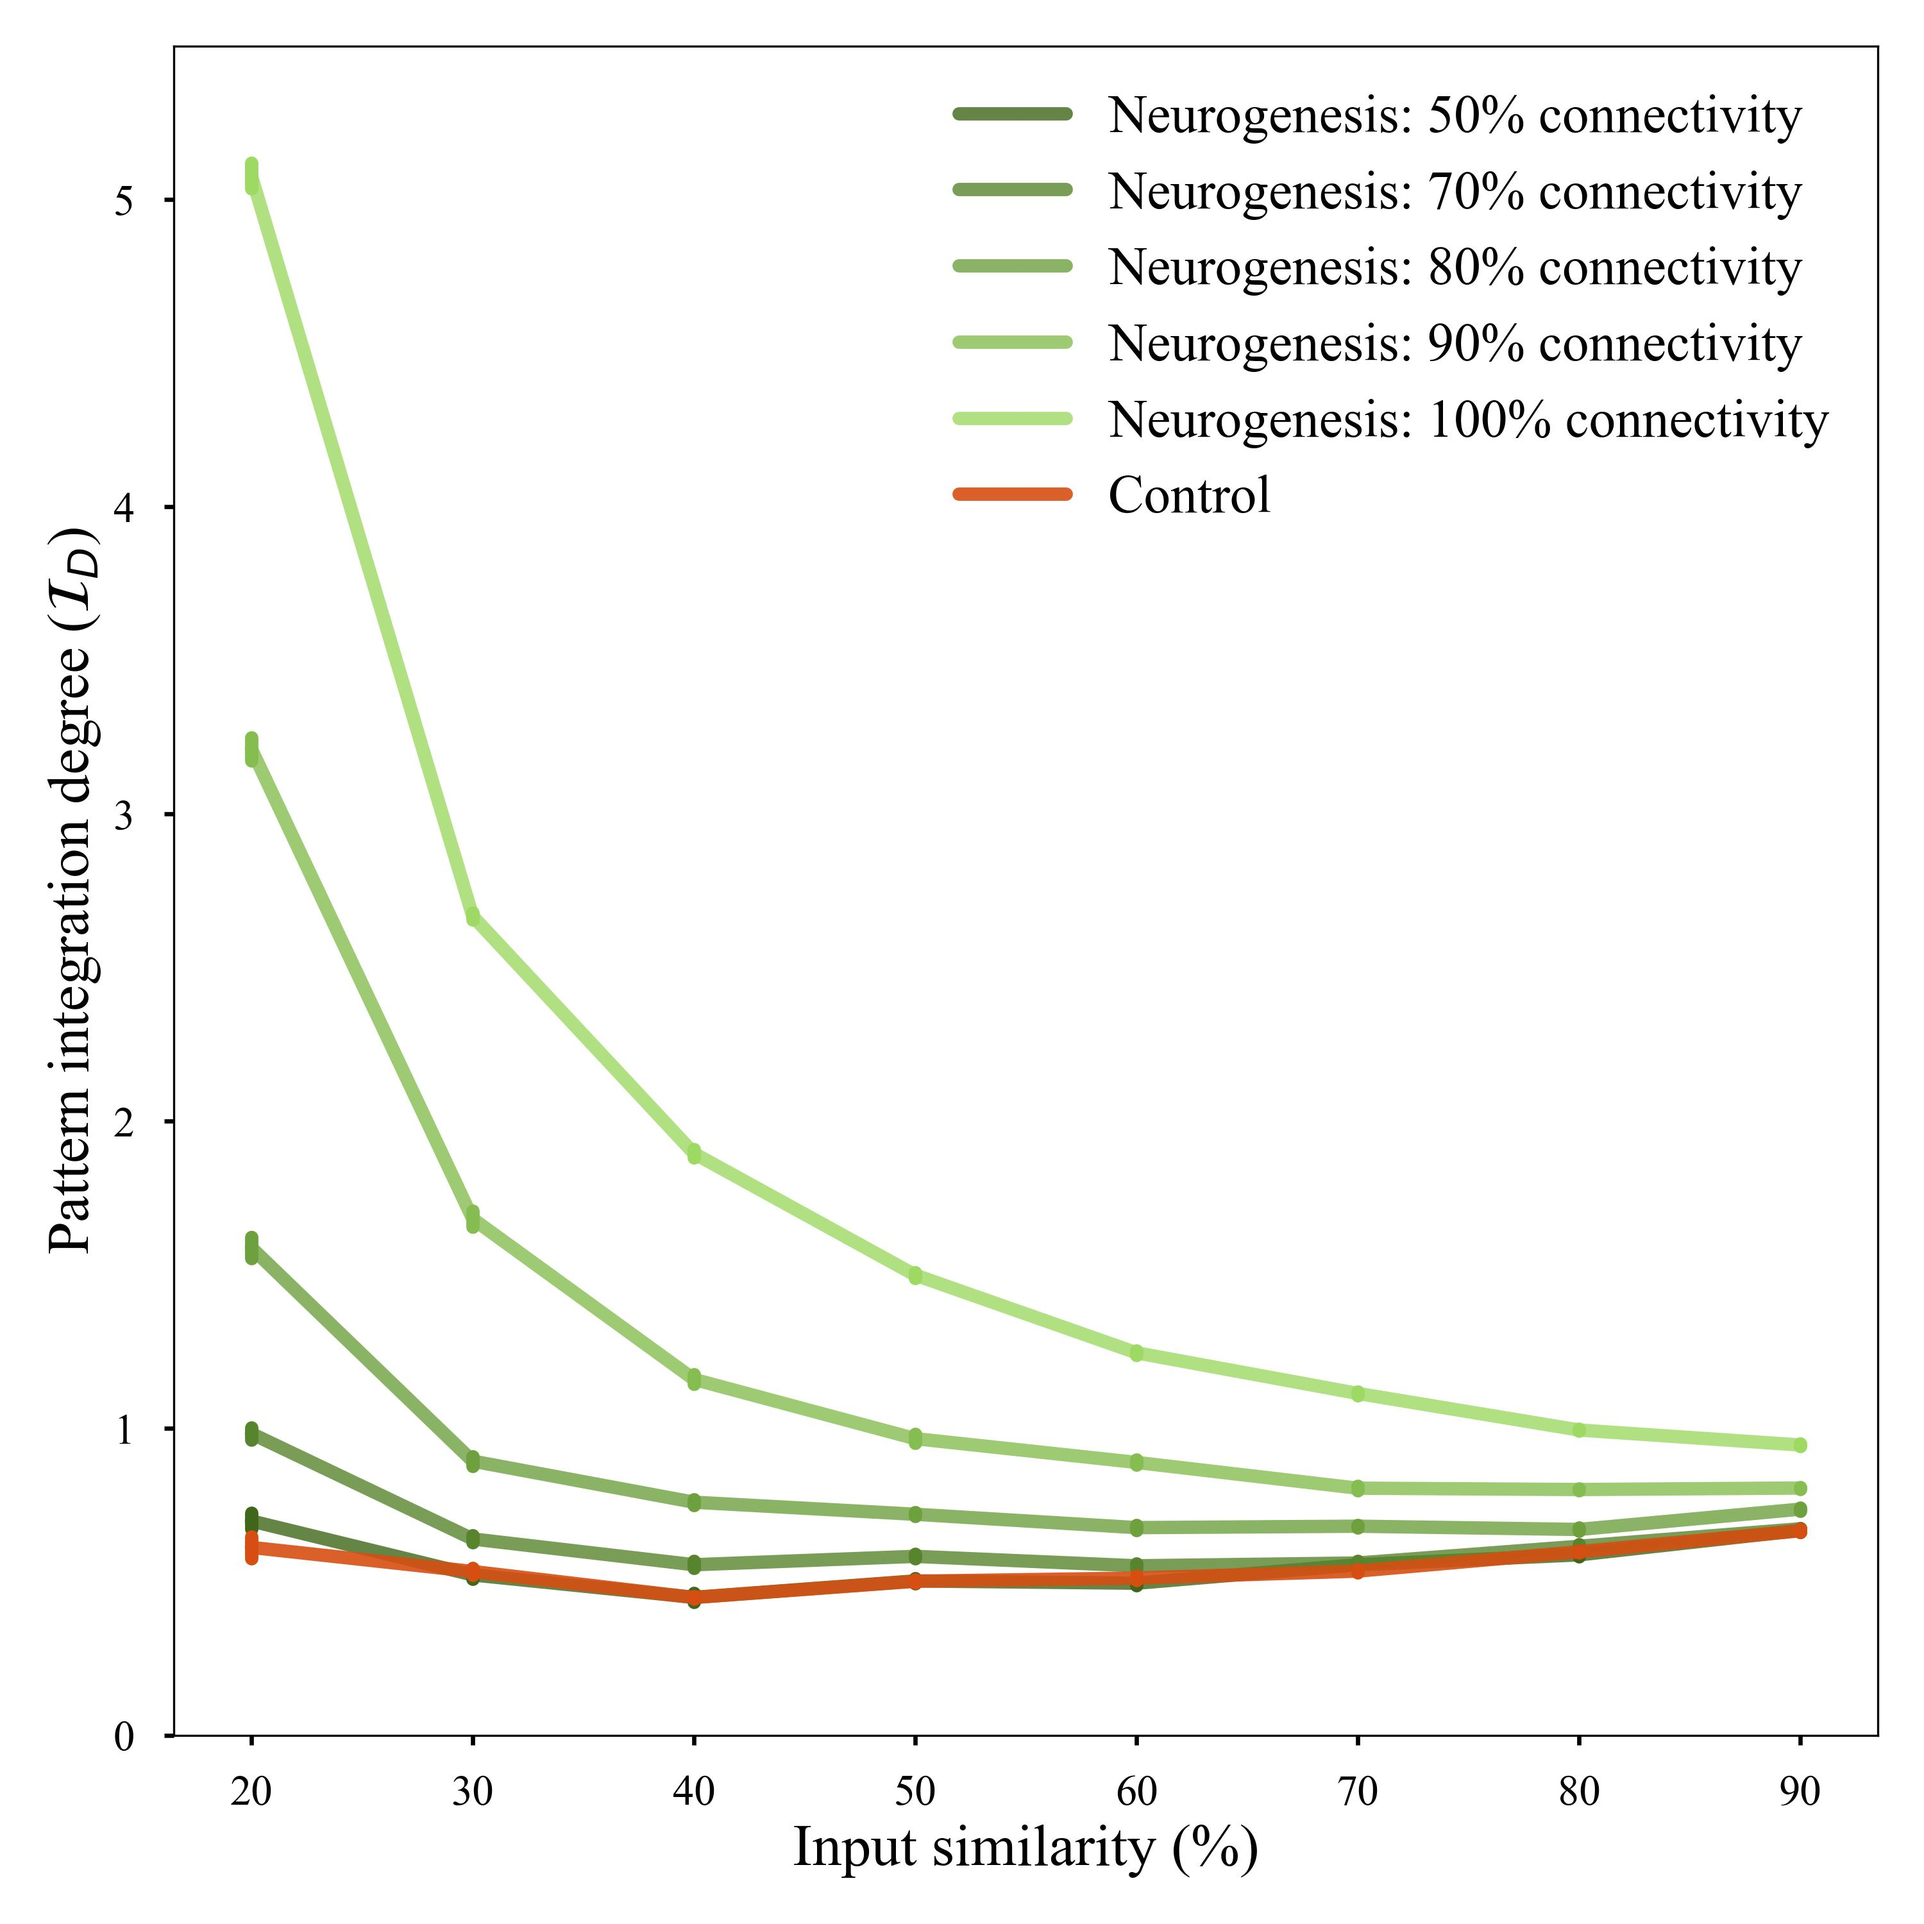
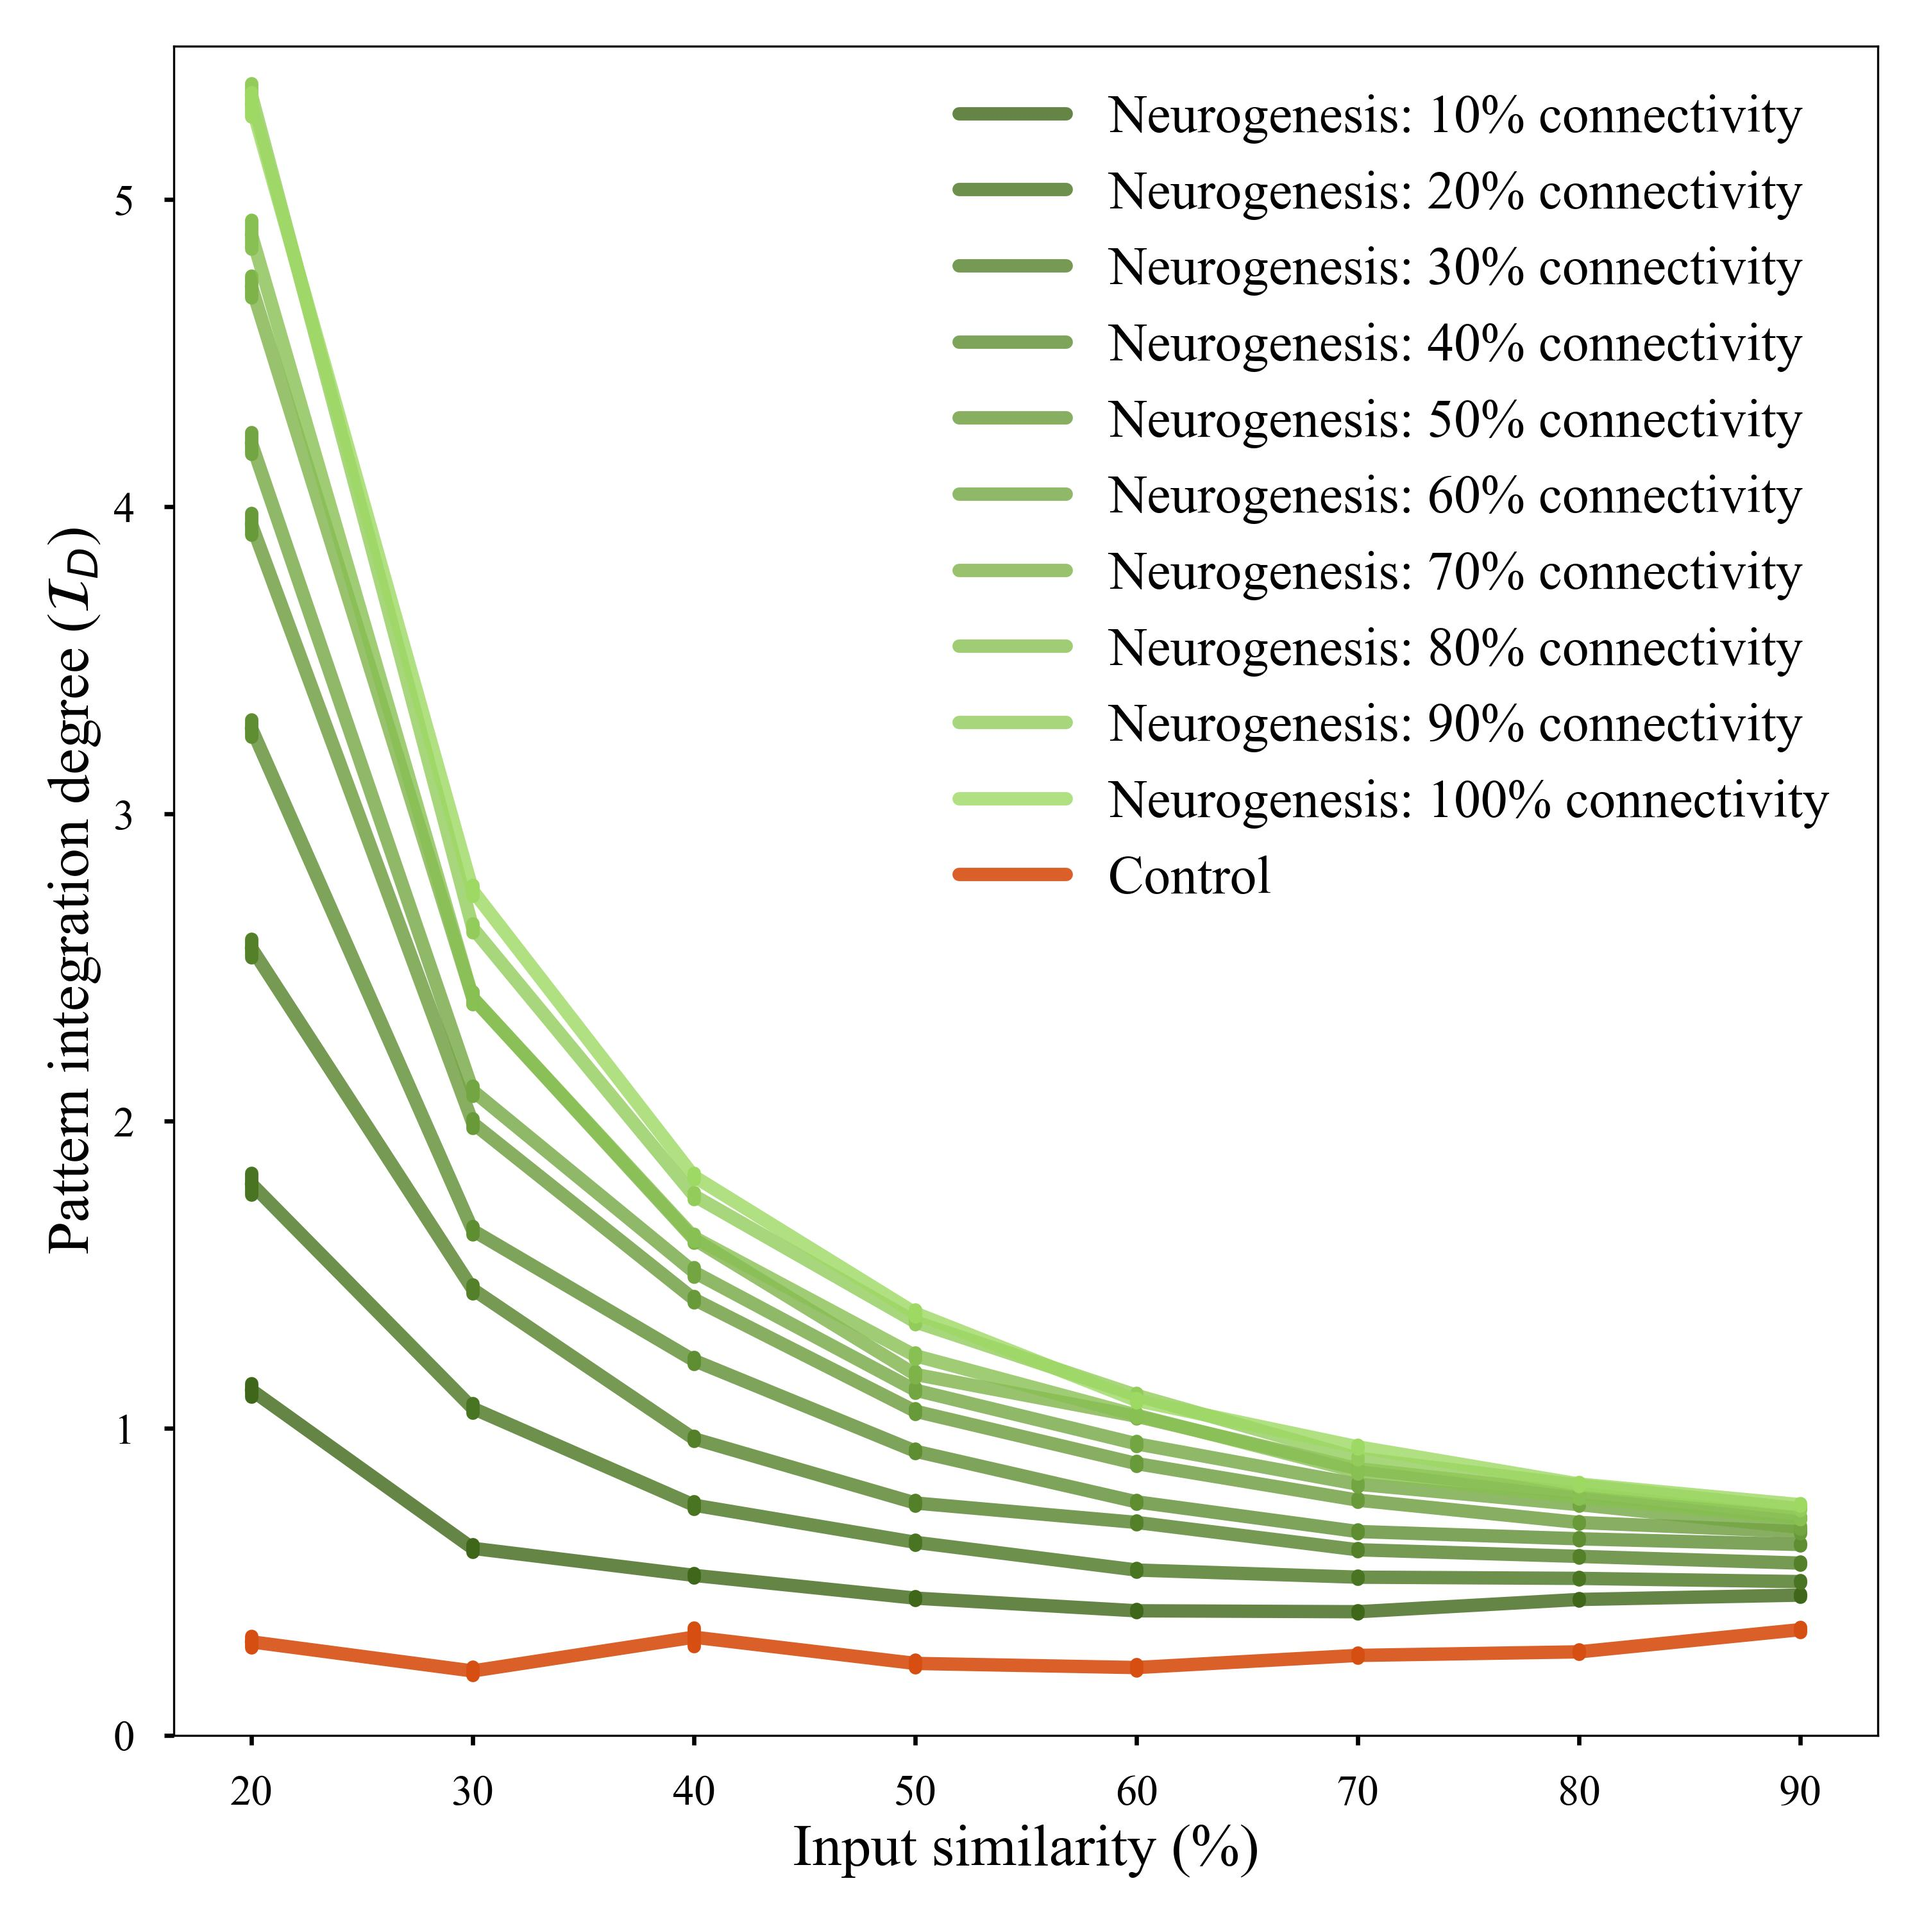
figures

diff --git a/scripts/data/pattern_separation.py b/scripts/data/pattern_separation.py
@@ -29,7 +29,7 @@ plt.rcParams.update({
     'lines.solid_capstyle': 'round',
 })
 
-data = load_pattern_data('run_05')
+data = load_pattern_data('izhikevich_run_01')
 
 g = list(sorted(list(data.keys())))
 groups = np.concatenate((g[1:], g[0:1]))
@@ -100,7 +100,8 @@ def in_similarity():
   c_color = "#d64e12"
   cmap = LinearSegmentedColormap.from_list('neuro_cmap', ['#3f6719','#9dd963'])
 
-  groups_to_skip = ['neurogenesis_0.1', 'neurogenesis_0.2', 'neurogenesis_0.3', 'neurogenesis_0.4', 'neurogenesis_0.6', 'neurogenesis_0.7', 'neurogenesis_0.8']
+  # groups_to_skip = ['neurogenesis_0.1', 'neurogenesis_0.2', 'neurogenesis_0.3', 'neurogenesis_0.4', 'neurogenesis_0.6', 'neurogenesis_0.7', 'neurogenesis_0.8']
+  groups_to_skip = []
   total_ng = len(groups) - len(groups_to_skip) - 1
   cmap_index = 0
   # values = zip(in_sims, sds, std_errors)

diff --git a/scripts/data/pattern_integration.py b/scripts/data/pattern_integration.py
@@ -30,7 +30,7 @@ plt.rcParams.update({
     'lines.solid_capstyle': 'round',
 })
 
-data = load_pattern_data('run_05')
+data = load_pattern_data('izhikevich_run_01')
 
 g = list(sorted(list(data.keys())))
 groups = np.concatenate((g[1:], g[0:1]))
@@ -108,8 +108,8 @@ def in_similarity():
   c_color = "#d64e12"
   cmap = LinearSegmentedColormap.from_list('neuro_cmap', ['#3f6719','#9dd963'])
 
-  groups_to_skip = ['neurogenesis_0.1', 'neurogenesis_0.2', 'neurogenesis_0.3', 'neurogenesis_0.4', 'neurogenesis_0.6']
-  # groups_to_skip = []
+  # groups_to_skip = ['neurogenesis_0.1', 'neurogenesis_0.2', 'neurogenesis_0.3', 'neurogenesis_0.4', 'neurogenesis_0.6']
+  groups_to_skip = []
   total_ng = len(groups) - len(groups_to_skip) - 1
   cmap_index = 0
   # values = zip(in_sims, ids, std_errors)

diff --git a/scripts/data/avg_pattern_separation.py b/scripts/data/avg_pattern_separation.py
@@ -27,7 +27,7 @@ plt.rcParams.update({
     'lines.solid_capstyle': 'round',
 })
 
-data = load_pattern_data('run_05')
+data = load_pattern_data('izhikevich_run_01')
 
 groups = sorted(list(data.keys()))
 
@@ -118,7 +118,7 @@ def in_similarity():
   print(sds)
   plt.axhline(y=sds[0], color=c_color, linestyle='--')
   plt.axhline(y=1, color='gray', linestyle='--')
-  ax.set_ylim(0, 6.5)
+  # ax.set_ylim(0, 6.5)
   
   ng_groups = groups[1:]
   sds = sds[1:]

diff --git a/scripts/data/avg_activity.py b/scripts/data/avg_activity.py
@@ -1,5 +1,4 @@
 import numpy as np
-from brokenaxes import brokenaxes
 from matplotlib.ticker import FuncFormatter
 from matplotlib.ticker import MaxNLocator
 import matplotlib.pyplot as plt
@@ -34,7 +33,7 @@ plt.rcParams.update({
     
   })
 
-data = load_pattern_data('run_05')
+data = load_pattern_data('izhikevich_run_01')
 
 groups = sorted(list(data.keys()))
 

diff --git a/params/cells.py b/params/cells.py
@@ -110,6 +110,7 @@ cell_params = {
         "Vpeak"     : 35.86 * mV,
         "Vmin"      : -38.87 * mV,
     },
+    # TODO: Should be from basket cck+
     # From Axo-axonic: https://hippocampome.org/php/neuron_page.php?id=2028
     "ica3": {
         "name"      : "ica3",

diff --git a/scripts/data/avg_pattern_integration.py b/scripts/data/avg_pattern_integration.py
@@ -27,7 +27,7 @@ plt.rcParams.update({
     'lines.solid_capstyle': 'round',
 })
 
-data = load_pattern_data('run_05')
+data = load_pattern_data('izhikevich_run_01')
 
 groups = sorted(list(data.keys()))
 
